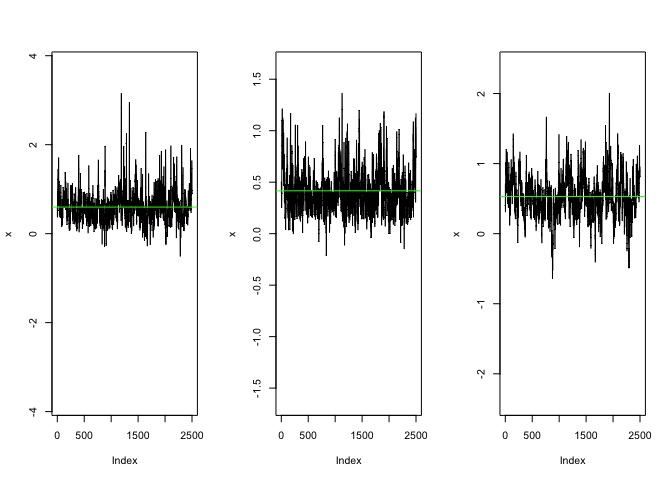
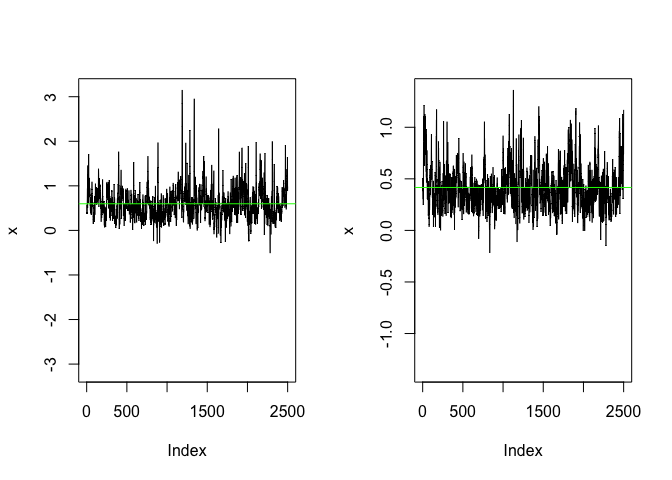
README update

diff --git a/README.md b/README.md
@@ -180,14 +180,13 @@ select 4 of these locations, and check the slope convergence plots.
 ``` r
 set.seed(2025)
 
-ran_sam = sample(1:N, 3)
-par(mfrow = c(1, 3))
+ran_sam = sample(1:N, 2)
+par(mfrow = c(1, 2))
 MCMC_plot(MM$Beta[, (N + ran_sam[1])])
 MCMC_plot(MM$Beta[, (N + ran_sam[2])])
-MCMC_plot(MM$Beta[, (N + ran_sam[3])])
 ```
 
-<img src="README_files/figure-gfm/MCMC diagnostic plots-1.png" width="90%" height="70%" />
+<img src="README_files/figure-gfm/MCMC diagnostic plots-1.png" width="50%" height="70%" />
 
 ## Perform significance tests
 
